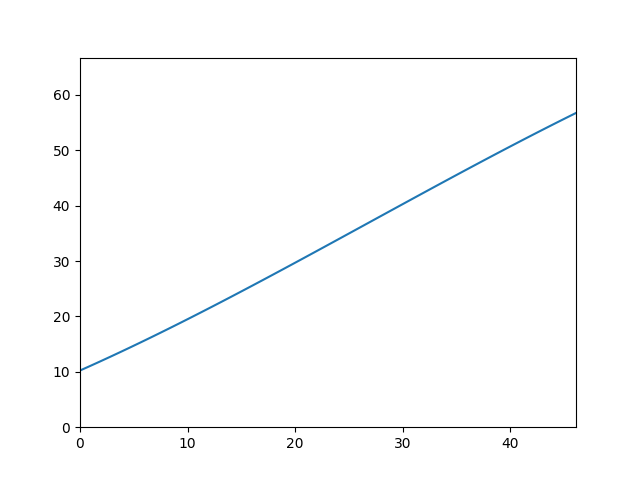
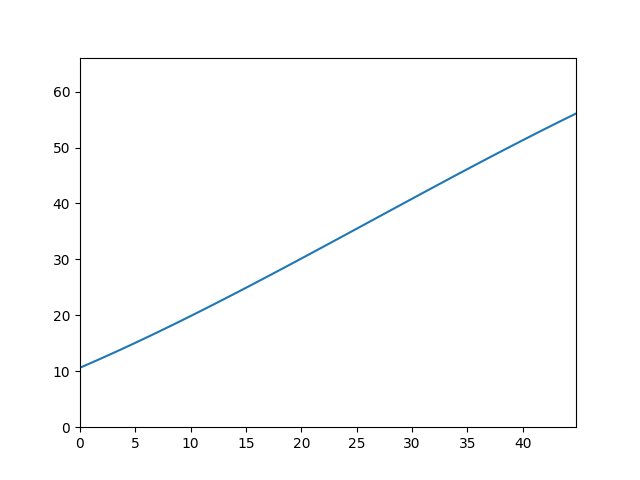
Calc

diff --git a/derailleurs/Microshift RD-M6205AM/default.htm b/derailleurs/Microshift RD-M6205AM/default.htm
@@ -21,35 +21,35 @@ Microshift Advent X 10-Speed
   </tr>
   <tr>
     <th>Pull Ratio</th>
-    <td>1.04</td>
+    <td>1.05</td>
   </tr>
   <tr>
     <th>Curve Coefficients</th>
-    <td>10.24, 0.861, 0.00741, -0.000092</td>
+    <td>10.64, 0.852, 0.00833, -0.000105</td>
   </tr>
   <tr>
     <th>Physical Low Limit</th>
-    <td>10.24</td>
+    <td>10.64</td>
   </tr>
   <tr>
     <th>Physical High Limit</th>
-    <td>56.75</td>
+    <td>56.08</td>
   </tr>
   <tr>
     <th>Pull Ratio Averaged Across Pulling Runs</th>
-    <td>1.041 +/- 0.000</td>
+    <td>1.048 +/- 0.011</td>
   </tr>
   <tr>
     <th>Pull Ratio Averaged Across Relaxing Runs</th>
-    <td>1.038 +/- 0.000</td>
+    <td>1.047 +/- 0.014</td>
   </tr>
   <tr>
     <th>Pull Ratio Averaged Across All Runs</th>
-    <td>1.040 +/- 0.003</td>
+    <td>1.048 +/- 0.013</td>
   </tr>
   <tr>
     <th>Pull Ratio 95% Confidence Interval</th>
-    <td>1.037 to 1.043</td>
+    <td>1.035 to 1.061</td>
   </tr>
   
   
@@ -68,6 +68,16 @@ Microshift Advent X 10-Speed
 
 
 <section>
+<h2>2025-01-22 19-31 PM Pulling</h2>
+<a href="pullratio/2025-01-22 19-31 PM Pulling.csv">Raw Measurement Data</a>
+<figure>
+<img src="pullratio/2025-01-22 19-31 PM Pulling.png"/>
+<figcaption>Data and best fit line, excluding points taken at limits</figcaption>
+</figure>
+</section>
+
+
+<section>
 <h2>2025-01-22 19-48 PM Relaxing</h2>
 <a href="pullratio/2025-01-22 19-48 PM Relaxing.csv">Raw Measurement Data</a>
 <figure>
@@ -78,10 +88,40 @@ Microshift Advent X 10-Speed
 
 
 <section>
-<h2>2025-01-22 19-31 PM Pulling</h2>
-<a href="pullratio/2025-01-22 19-31 PM Pulling.csv">Raw Measurement Data</a>
+<h2>2025-01-31 07-29 AM Pulling</h2>
+<a href="pullratio/2025-01-31 07-29 AM Pulling.csv">Raw Measurement Data</a>
 <figure>
-<img src="pullratio/2025-01-22 19-31 PM Pulling.png"/>
+<img src="pullratio/2025-01-31 07-29 AM Pulling.png"/>
+<figcaption>Data and best fit line, excluding points taken at limits</figcaption>
+</figure>
+</section>
+
+
+<section>
+<h2>2025-01-31 07-38 AM Relaxing</h2>
+<a href="pullratio/2025-01-31 07-38 AM Relaxing.csv">Raw Measurement Data</a>
+<figure>
+<img src="pullratio/2025-01-31 07-38 AM Relaxing.png"/>
+<figcaption>Data and best fit line, excluding points taken at limits</figcaption>
+</figure>
+</section>
+
+
+<section>
+<h2>2025-01-31 07-47 AM Pulling</h2>
+<a href="pullratio/2025-01-31 07-47 AM Pulling.csv">Raw Measurement Data</a>
+<figure>
+<img src="pullratio/2025-01-31 07-47 AM Pulling.png"/>
+<figcaption>Data and best fit line, excluding points taken at limits</figcaption>
+</figure>
+</section>
+
+
+<section>
+<h2>2025-01-31 07-56 AM Relaxing</h2>
+<a href="pullratio/2025-01-31 07-56 AM Relaxing.csv">Raw Measurement Data</a>
+<figure>
+<img src="pullratio/2025-01-31 07-56 AM Relaxing.png"/>
 <figcaption>Data and best fit line, excluding points taken at limits</figcaption>
 </figure>
 </section>
@@ -96,7 +136,7 @@ Microshift Advent X 10-Speed
       <a href="https://buymeacoffee.com/boothsprojects" target="_blank">Buy me a coffee!</a></span>
       &middot;
     <span> Not affiliated with Shimano, SRAM, or other manufacturers. Use at your own risk.</span>
-    <span style="float: right">Last Updated 2025-01-22</span>
+    <span style="float: right">Last Updated 2025-01-31</span>
   </footer>
 </body>
 
